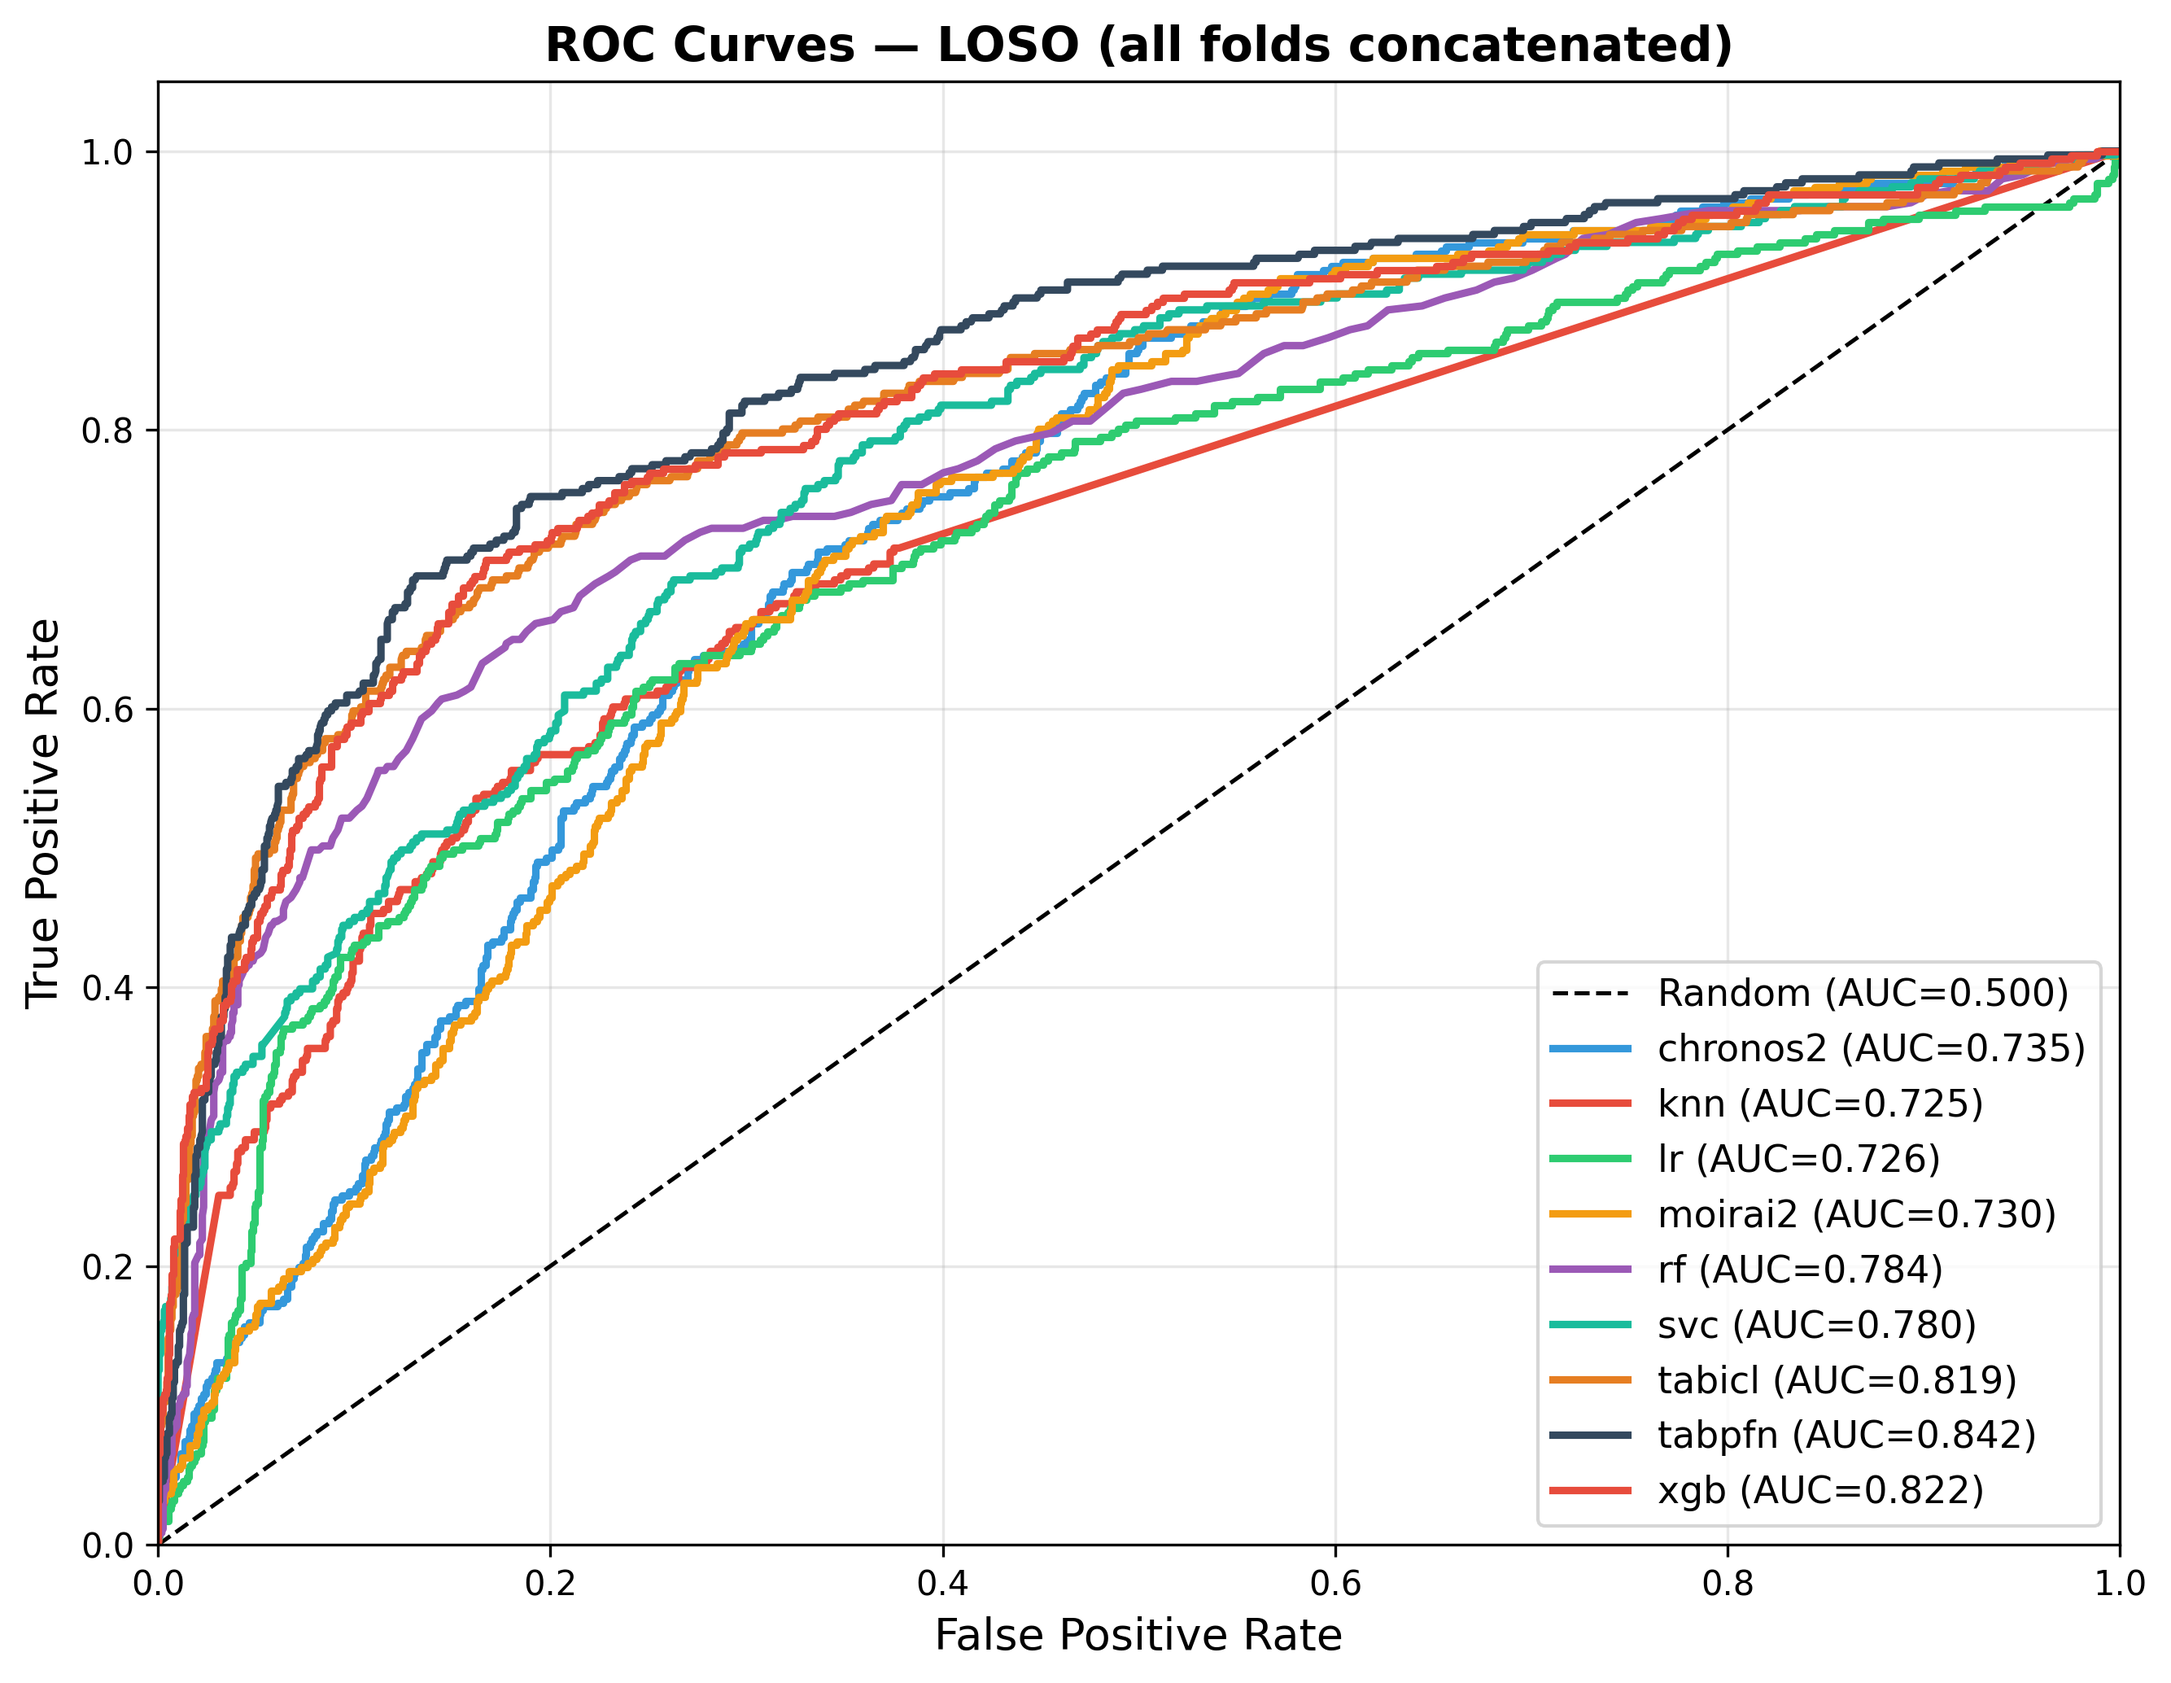
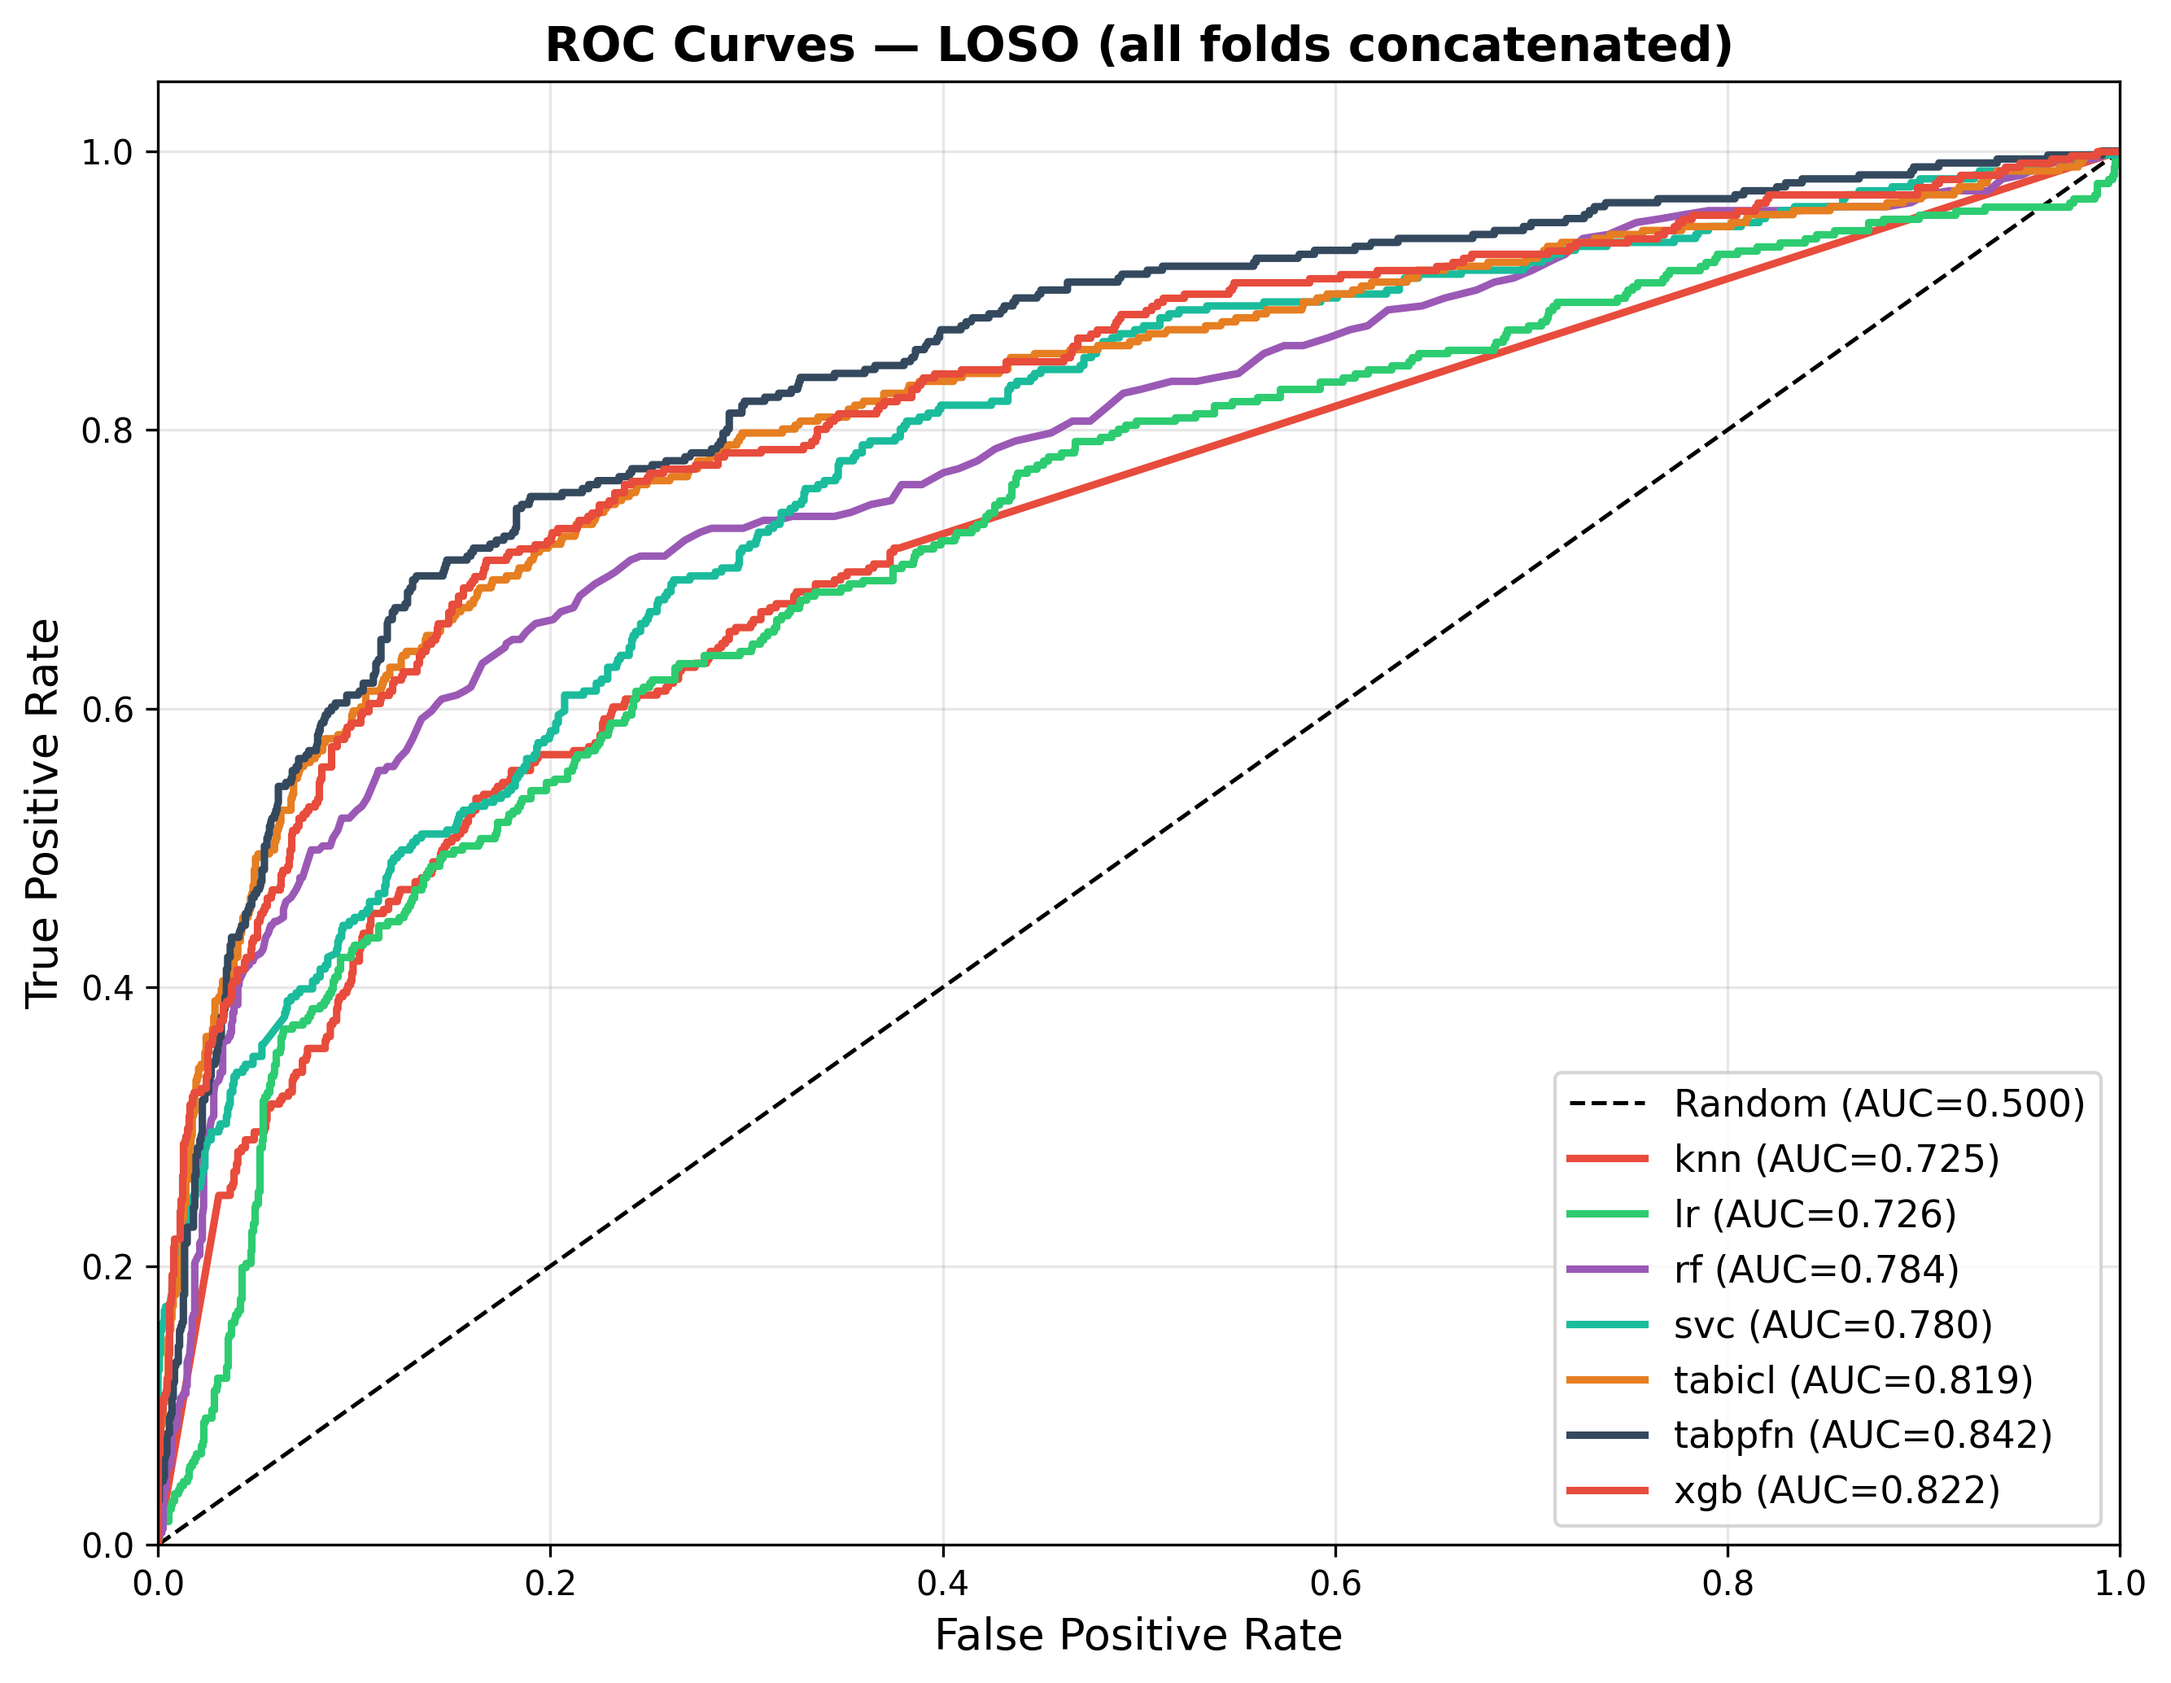
roc without series

diff --git a/plot_loso_results.py b/plot_loso_results.py
@@ -38,7 +38,7 @@ def parse_args() -> argparse.Namespace:
 # Metrics table
 # ---------------------------------------------------------------------------
 
-_ROC_EXCLUDE = {"chronos", "moirai", "tsmixer"}
+_ROC_EXCLUDE = {"chronos", "chronos2", "moirai", "moirai2", "tsmixer"}
 
 
 def plot_metrics_table(df: pd.DataFrame, output_dir: Path) -> None:
